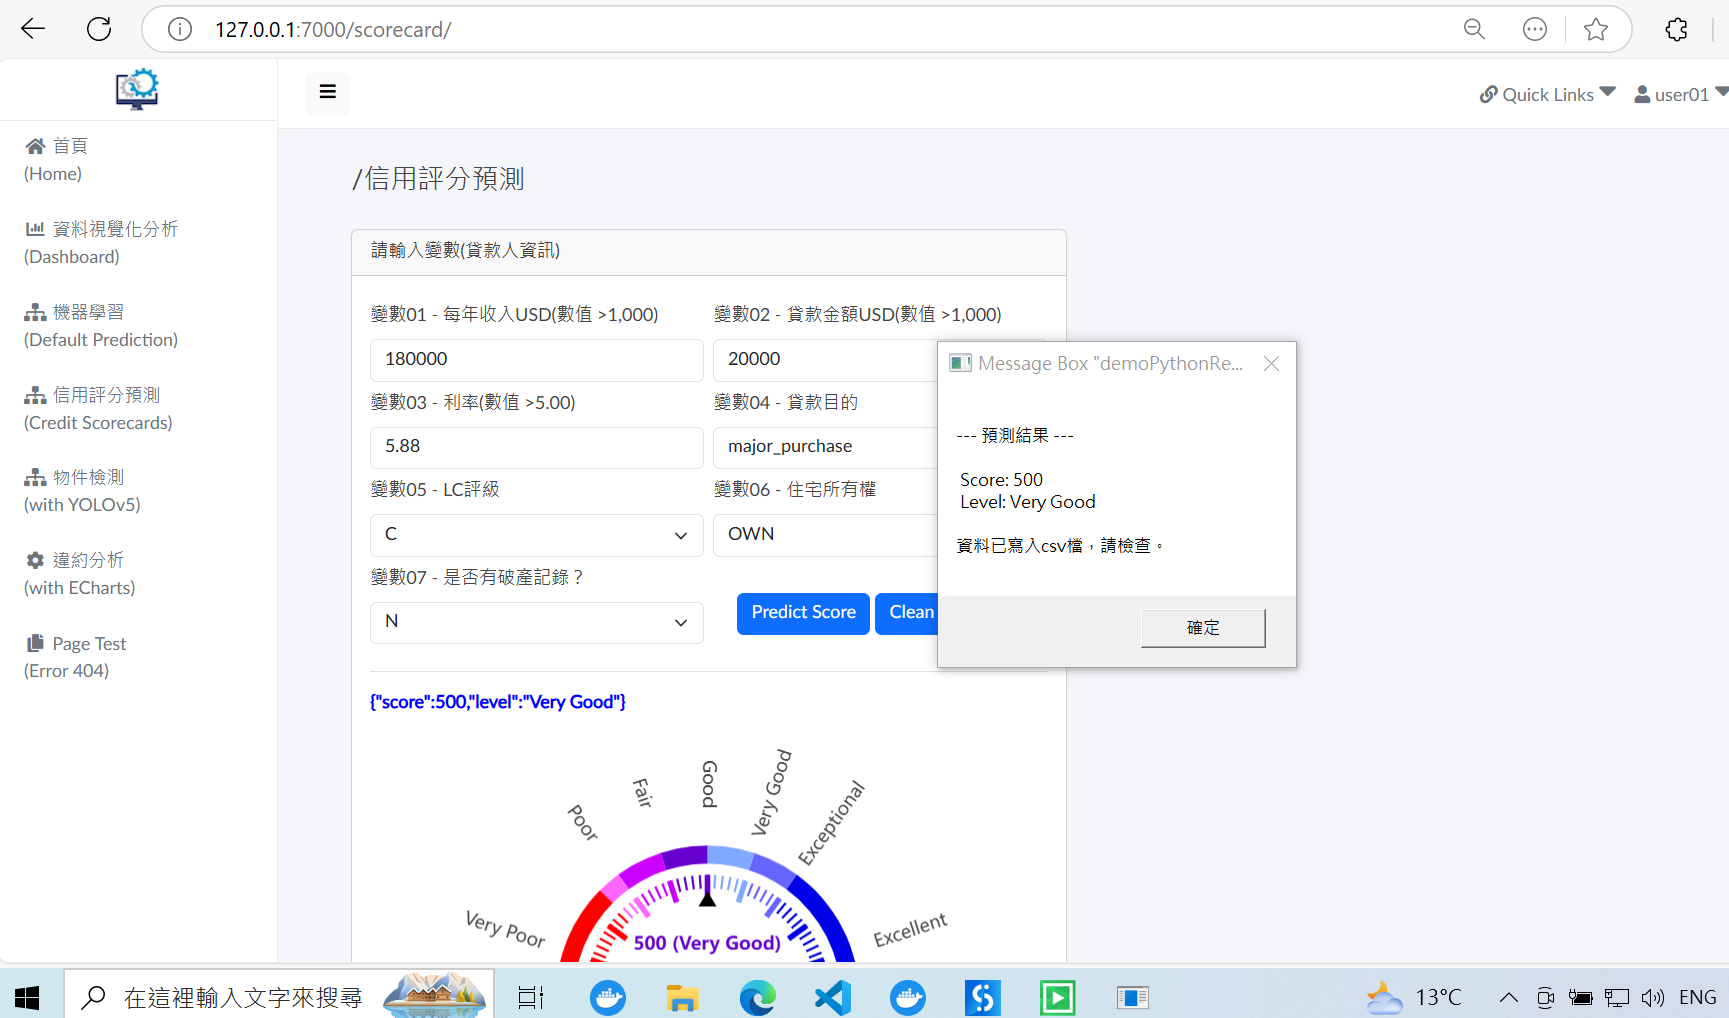
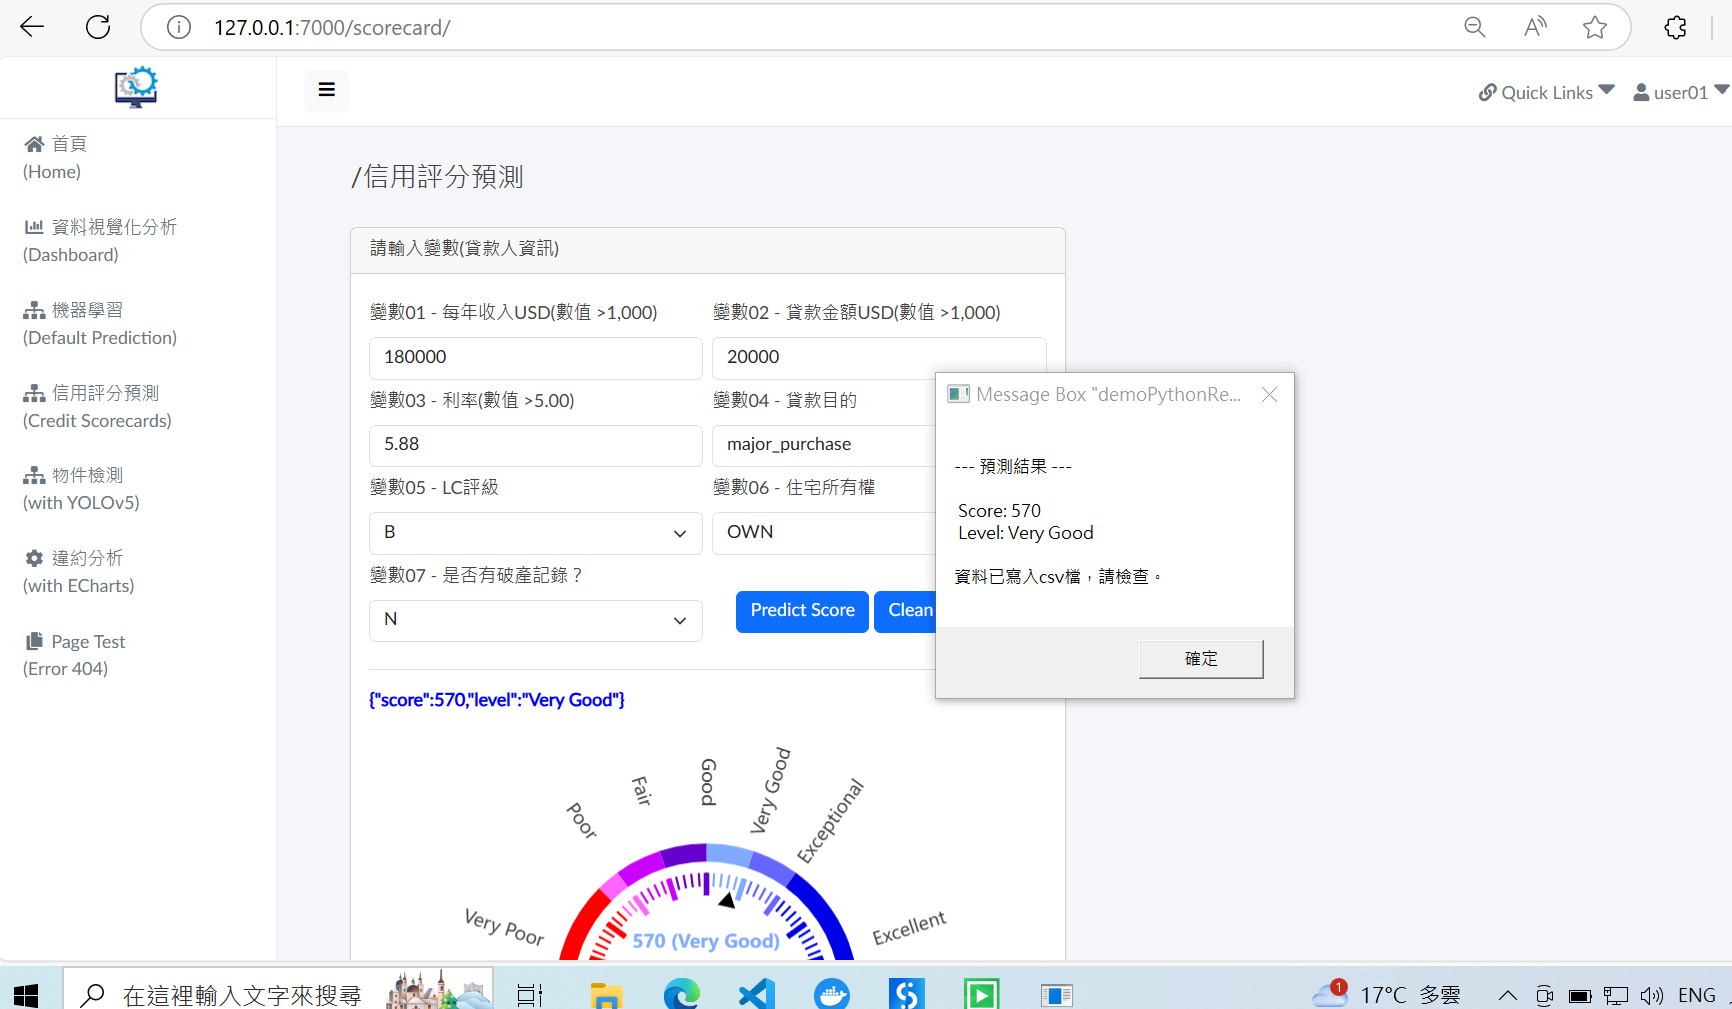
Revise md file_01

diff --git a/Main.xaml b/Main.xaml
@@ -381,7 +381,7 @@
                     </scg:Dictionary>
                   </sap:WorkflowViewStateService.ViewState>
                 </uix:NSelectItem>
-                <uix:NSelectItem DisplayName="Select Item &quot;grade&quot;" sap:VirtualizedContainerService.HintSize="484,57.333333333333336" sap2010:WorkflowViewState.IdRef="NSelectItem_2" Item="C" ScopeIdentifier="f91fa21c-5229-430e-82ab-74827a3ac24c" Version="V4">
+                <uix:NSelectItem DisplayName="Select Item &quot;grade&quot;" sap:VirtualizedContainerService.HintSize="484,57.333333333333336" sap2010:WorkflowViewState.IdRef="NSelectItem_2" Item="B" ScopeIdentifier="f91fa21c-5229-430e-82ab-74827a3ac24c" Version="V4">
                   <uix:NSelectItem.Items>
                     <scg:List x:TypeArguments="x:String" Capacity="8">
                       <x:String>Choose...</x:String>

diff --git a/README.md b/README.md
@@ -3,16 +3,16 @@
 ## **A simple example of integrating Python With UiPath for web automation**
 
 #### **Ⅰ. 目的** 
-研調RPA (Robotic process automation)，實作Uipath來操作網頁，並在其流程中使用Python處理資料。 
+研調 RPA (Robotic process automation)，實作UiPath來操作網頁，並在其流程中使用Python處理資料。 
 
-#### **Ⅱ. 工具**
+#### **Ⅱ. 主要工具**
 UiPath Studio Desktop、Python
 
 #### **Ⅲ. 說明**
-在UiPath開啓Process，創建一個Flow chart，其中新增一個Sequence，Sequence加入Python Scope。<br>
-Process主要內容：到一個網站( 專案django_demo_01 [詳見](<https://github.com/qinglian1105>)) ，輸入帳密登入，side menu點選某一選單，在Form填入資料按鍵執行，將結果存成變數，該變數再由Python程式處理後，返回予Message Box顯示，按「確定」後關閉網頁，完成整個Process自動化，詳見檔案Main.xaml。部份頁面及說明如下：<br> 
+在UiPath Studio開啓Process，創建一個Flow chart，其中新增一個Sequence，Sequence加入Python Scope。<br>
+Process主要內容：到一個網站( 專案django_demo_01 [詳見](<https://github.com/qinglian1105>)) ，接著輸入帳密登入，左側side menu點選某一選單，在Form填入資料按鍵執行，將結果存成變數，該變數再由Python程式處理後，返回予Message Box顯示，按「確定」後關閉網頁，完成整個Process自動化，詳見檔案Main.xaml。部份頁面及說明如下：<br> 
 
-- UiPath - 建立Process<br>
+- UiPath Studio - 建立Process<br>
 
 Sequence中的Activity如下右邊的Outline所示。
 
